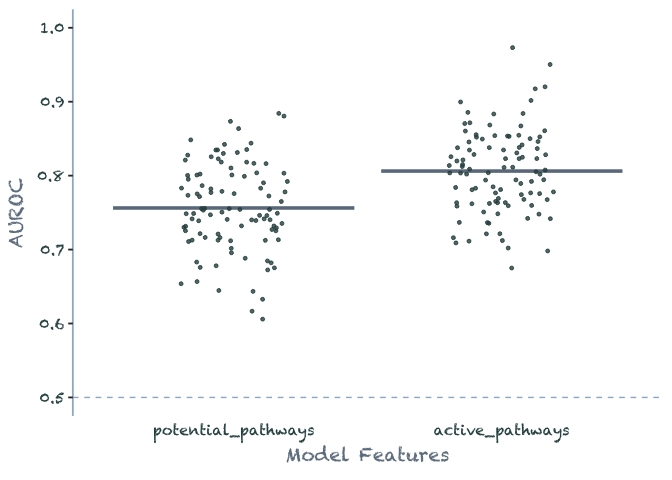
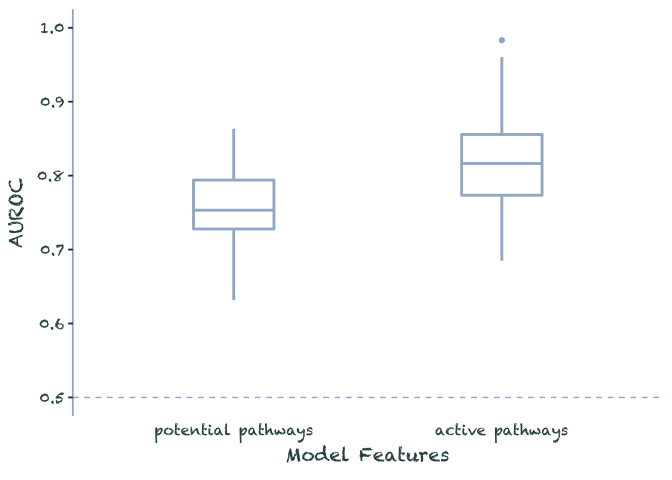
Back to boxplots

diff --git a/README.md b/README.md
@@ -57,7 +57,7 @@ metadata %>%
 set.seed(2019)
 ml1 <- data.frame(OTUs = rnorm(100, .69, .07),
                   pathways = rnorm(100, .79, .06),
-                  both = rnorm(100, .81, .05)) %>% 
+                  both = rnorm(100, .82, .05)) %>% 
     pivot_longer(everything(), names_to = "model", values_to = 'auroc') %>% 
     filter(auroc < 1) %>% 
     mutate(model = as_factor(model))
@@ -66,8 +66,7 @@ ml1 <- data.frame(OTUs = rnorm(100, .69, .07),
 ``` r
 plot_auroc <- function(mldata) {
   mldata %>% ggplot(aes(model, auroc)) +
-    stat_summary(fun = mean, geom = "crossbar", color = "slategray4") +
-    geom_jitter(color = "darkslategray", alpha = 0.8, size = 1, width = 0.2) +
+    geom_boxplot(color = "slategray3", width = 0.3, lwd = 1, fatten = 1) +
     geom_hline(yintercept = 0.5, 
                linetype = 'dashed',
                color = 'slategray3') +
@@ -78,7 +77,7 @@ plot_auroc <- function(mldata) {
     theme(axis.ticks.x = element_line(colour=NA),
           axis.line.x = element_blank(),
           axis.line.y = element_line(color = "slategray3"),
-          text = element_text(color = 'slategray'),
+          text = element_text(color = 'darkslategray'),
           axis.text = element_text(color = 'darkslategray'))
 }
 
@@ -88,11 +87,13 @@ ml1 %>% plot_auroc()
 ![](figures/auroc1-1.png)<!-- -->
 
 ``` r
-ml2 <- data.frame(potential_pathways = rnorm(100, .76, .06),
-                  active_pathways = rnorm(100, .81, .05)) %>% 
+ml2 <- data.frame(potential_pathways = rnorm(100, .76, .05),
+                  active_pathways = rnorm(100, .82, .05)) %>% 
   pivot_longer(everything(), names_to = "model", values_to = 'auroc') %>%
-  filter(auroc < 1) %>%
-  mutate(model = as_factor(model))
+  filter(auroc < 1) %>% 
+  mutate(model = as_factor(model) %>% 
+           recode(potential_pathways = 'potential pathways',
+                  active_pathways = 'active pathways'))
 ml2 %>% plot_auroc()
 ```
 
